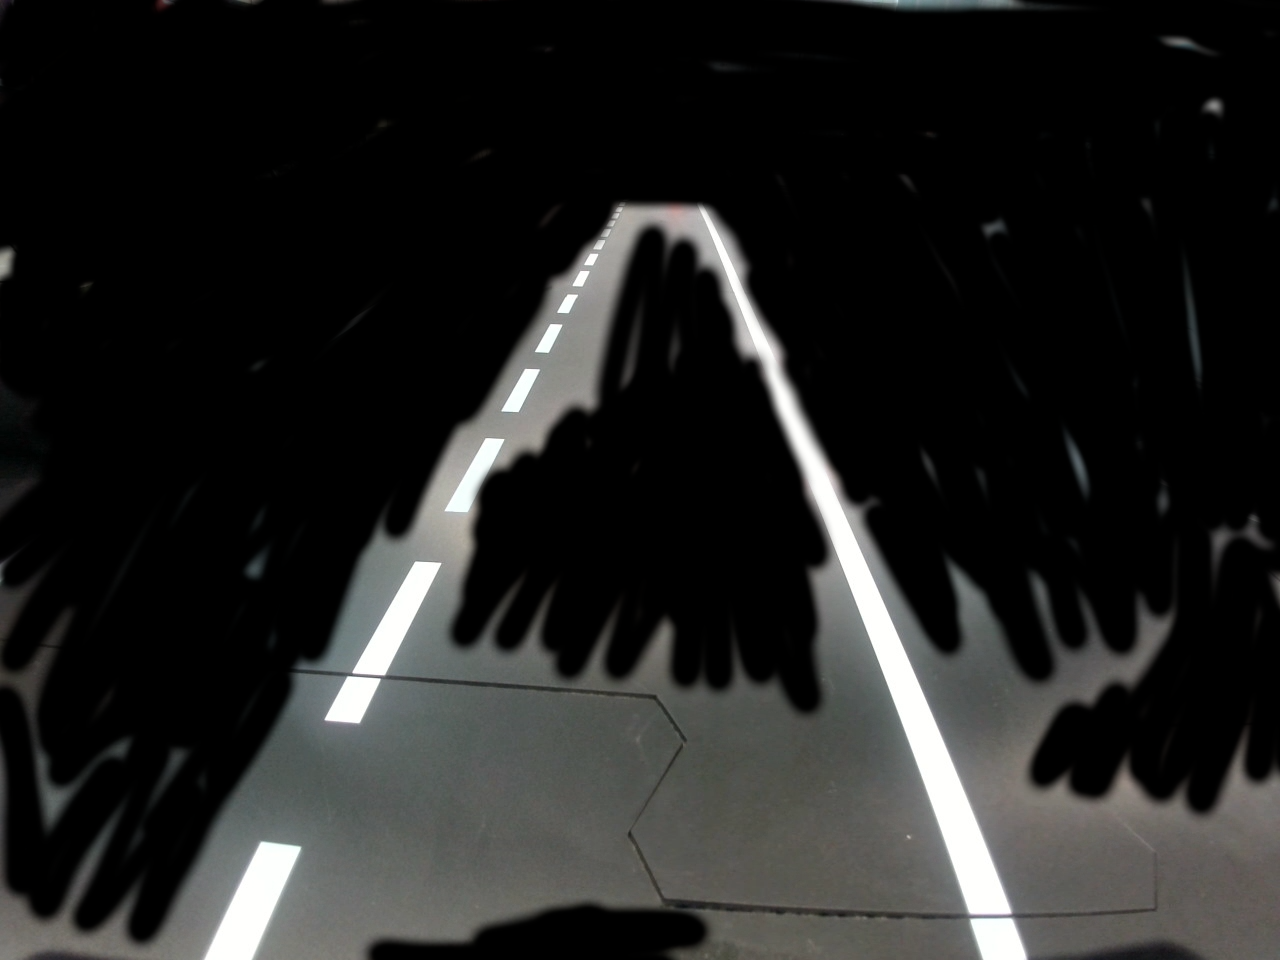
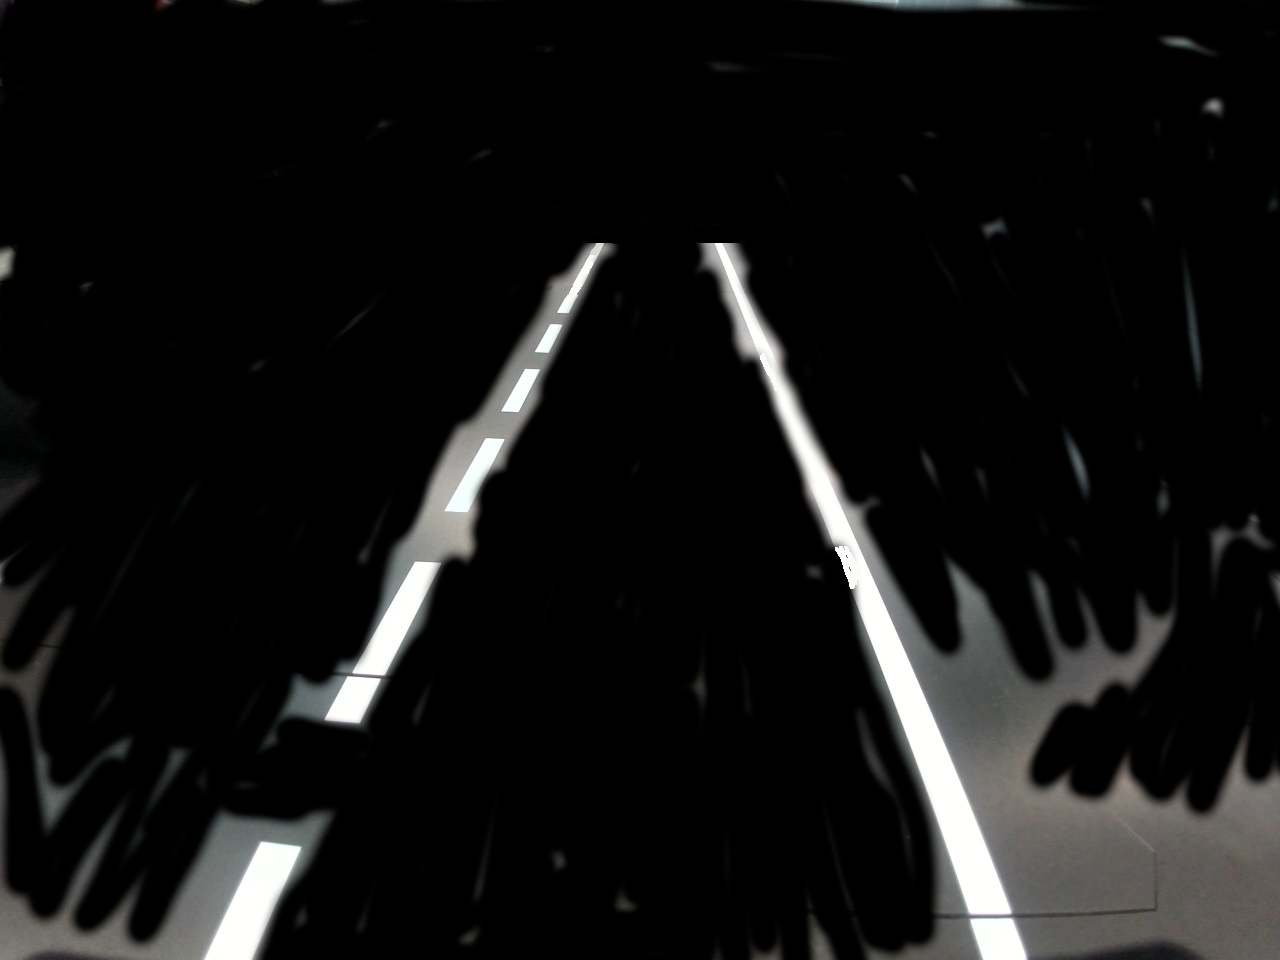
рабочая сетка

Changed region(s): [[0.1562, 0.5, 0.75, 1.0], [0.375, 0.1875, 0.5938, 0.5], [0.1875, 0.5625, 0.2188, 0.625]]

diff --git a/Computer_Vision_for_Autonomous_Robot_Navigation/Main_stage/matrix_pro.py b/Computer_Vision_for_Autonomous_Robot_Navigation/Main_stage/matrix_pro.py
@@ -95,64 +95,79 @@ def find_road_edges(image):
                     else:
                         right_lines.append(line[0])
             
-            # Если нашли линии, используем их для определения границ
-            if left_lines and right_lines:
-                # Берем средние позиции линий
-                left_x = int(np.mean([line[0] for line in left_lines]))
-                right_x = int(np.mean([line[0] for line in right_lines]))  # Исправлено: было left_lines
-                
-                # Находим реальную верхнюю границу дороги
-                # Анализируем y-координаты найденных линий
-                left_y_coords = [line[1] for line in left_lines]  # y-координаты левых линий
-                right_y_coords = [line[1] for line in right_lines]  # y-координаты правых линий
-                
-                # Берем самую верхнюю точку среди всех линий
-                all_y_coords = left_y_coords + right_y_coords
-                top_y = min(all_y_coords) if all_y_coords else int(height * 0.2)
-                
-                # Ограничиваем верхнюю границу
-                min_top_y = int(height * 0.1)
-                top_y = max(top_y, min_top_y)
-                
-                # Создаем точки для трапеции
-                dst_points = np.float32([
-                    [left_x, top_y],                  # верхний левый
-                    [right_x, top_y],                 # верхний правый
-                    [right_x + 50, height],           # нижний правый
-                    [left_x - 50, height]             # нижний левый
-                ])
-                return dst_points, white_lines_mask, image.copy()
+            # Убираем весь блок с линиями Хафа - берем точки только от контуров
     
-    # Создаем точки трапеции на основе найденных контуров
+    # Создаем точки трапеции от контуров белых линий
     if left_edge is not None and right_edge is not None:
-        # Получаем крайние точки контуров
-        left_rect = cv2.boundingRect(left_edge)
-        right_rect = cv2.boundingRect(right_edge)
+        # Берем точки контуров
+        left_points = left_edge.reshape(-1, 2)
+        right_points = right_edge.reshape(-1, 2)
         
-        # Находим реальную верхнюю границу дороги
-        # Ищем самую верхнюю точку среди левого и правого контуров
-        left_top_y = left_rect[1]  # y-координата верхней границы левого контура
-        right_top_y = right_rect[1]  # y-координата верхней границы правого контура
-        top_y = min(left_top_y, right_top_y)  # Берем самую верхнюю точку
+        # От левой линии берем самые правые точки (сверху и снизу)
+        left_right_x = np.max(left_points[:, 0])
+        left_top_y = np.min(left_points[:, 1])
+        left_bottom_y = np.max(left_points[:, 1])
         
-        # Ограничиваем верхнюю границу, чтобы трапеция не была слишком узкой
-        min_top_y = int(height * 0.1)  # Минимум 10% от высоты
-        top_y = max(top_y, min_top_y)
+        # От правой линии берем самые левые точки (сверху и снизу)
+        right_left_x = np.min(right_points[:, 0])
+        right_top_y = np.min(right_points[:, 1])
+        right_bottom_y = np.max(right_points[:, 1])
         
-        # Создаем точки трапеции
+        # Строим трапецию с учетом наклона линий
+        # Верхние точки - на одной высоте (самая верхняя)
+        top_y = min(left_top_y, right_top_y)
+        
+        # Нижние точки - на одной высоте (самая нижняя)
+        bottom_y = max(left_bottom_y, right_bottom_y)
+        
+        # Находим x-координаты для верхних и нижних точек с учетом наклона
+        # Для левой линии: находим САМУЮ ПРАВУЮ точку на высоте top_y и bottom_y (внутренняя граница)
+        left_top_mask = np.abs(left_points[:, 1] - top_y) < 5  # точки вблизи top_y
+        left_bottom_mask = np.abs(left_points[:, 1] - bottom_y) < 5  # точки вблизи bottom_y
+        
+        if np.any(left_top_mask):
+            left_top_x = np.max(left_points[left_top_mask, 0])  # самая правая точка
+        else:
+            left_top_x = left_right_x
+            
+        if np.any(left_bottom_mask):
+            left_bottom_x = np.max(left_points[left_bottom_mask, 0])  # самая правая точка
+        else:
+            left_bottom_x = left_right_x
+        
+        # Для правой линии: находим САМУЮ ЛЕВУЮ точку на высоте top_y и bottom_y (внутренняя граница)
+        right_top_mask = np.abs(right_points[:, 1] - top_y) < 5  # точки вблизи top_y
+        right_bottom_mask = np.abs(right_points[:, 1] - bottom_y) < 5  # точки вблизи bottom_y
+        
+        if np.any(right_top_mask):
+            right_top_x = np.min(right_points[right_top_mask, 0])  # самая левая точка
+        else:
+            right_top_x = right_left_x
+            
+        if np.any(right_bottom_mask):
+            right_bottom_x = np.min(right_points[right_bottom_mask, 0])  # самая левая точка
+        else:
+            right_bottom_x = right_left_x
+        
         dst_points = np.float32([
-            [left_rect[0] + left_rect[2], top_y],                # верхний левый
-            [right_rect[0], top_y],                              # верхний правый
-            [right_rect[0] + right_rect[2], height],             # нижний правый
-            [left_rect[0], height]                               # нижний левый
+            [left_top_x, top_y],           # верхний левый (левая линия на верхней высоте)
+            [right_top_x, top_y],          # верхний правый (правая линия на верхней высоте)
+            [right_bottom_x, bottom_y],    # нижний правый (правая линия на нижней высоте)
+            [left_bottom_x, bottom_y]      # нижний левый (левая линия на нижней высоте)
         ])
+        
+        # Отладочная информация
+        print(f"Точки трапеции от контуров:")
+        print(f"Левая линия: верх x={left_top_x}, низ x={left_bottom_x}")
+        print(f"Правая линия: верх x={right_top_x}, низ x={right_bottom_x}")
+        print(f"Высота: верх y={top_y}, низ y={bottom_y}")
     else:
-        # Используем значения по умолчанию
+        # Используем значения по умолчанию (внутренние границы)
         dst_points = np.float32([
-            [width * 0.3, int(height * 0.2)],
-            [width * 0.7, int(height * 0.2)],
-            [width * 0.8, height],
-            [width * 0.2, height]
+            [width * 0.35, int(height * 0.2)],       # верхний левый (внутренняя левая граница)
+            [width * 0.65, int(height * 0.2)],       # верхний правый (внутренняя правая граница)
+            [width * 0.65, int(height * 0.9)],       # нижний правый (внутренняя правая граница)
+            [width * 0.35, int(height * 0.9)]        # нижний левый (внутренняя левая граница)
         ])
     
     # Визуализация найденных контуров
@@ -161,29 +176,6 @@ def find_road_edges(image):
         cv2.drawContours(viz, [left_edge], -1, (0, 255, 0), 2)
     if right_edge is not None:
         cv2.drawContours(viz, [right_edge], -1, (0, 0, 255), 2)
-    
-    # Рисуем границы дороги на маске белых линий
-    yellow = (0, 255, 255)  # Желтый цвет в BGR
-    
-    if left_edge is not None:
-        # Для левой линии берем самую правую границу
-        left_rect = cv2.boundingRect(left_edge)
-        left_rightmost_x = left_rect[0] + left_rect[2]  # x + width
-        # Рисуем вертикальную линию по самой правой границе левого контура
-        cv2.line(white_lines_mask, (left_rightmost_x, 0), (left_rightmost_x, height), yellow, 3)
-        # Добавляем текст с координатой
-        cv2.putText(white_lines_mask, f'L:{left_rightmost_x}', (left_rightmost_x + 5, 30), 
-                    cv2.FONT_HERSHEY_SIMPLEX, 0.7, yellow, 2)
-    
-    if right_edge is not None:
-        # Для правой линии берем самую левую границу
-        right_rect = cv2.boundingRect(right_edge)
-        right_leftmost_x = right_rect[0]  # x
-        # Рисуем вертикальную линию по самой левой границе правого контура
-        cv2.line(white_lines_mask, (right_leftmost_x, 0), (right_leftmost_x, height), yellow, 3)
-        # Добавляем текст с координатой
-        cv2.putText(white_lines_mask, f'R:{right_leftmost_x}', (right_leftmost_x - 50, 30), 
-                    cv2.FONT_HERSHEY_SIMPLEX, 0.7, yellow, 2)
     
     return dst_points, white_lines_mask, viz
 
@@ -202,93 +194,27 @@ def calculate_grid_step(points, num_cells=15):
     
     return grid_step
 
-def create_grid_from_road_edges(width, height, dst_points, num_cells_horizontal=10, num_cells_vertical=10):
-    """Создает сетку от внутренних сторон линий дороги"""
+def create_grid(width, height, grid_step):
+    """Создает сетку с заданным шагом"""
     grid = np.zeros((height, width, 3), dtype=np.uint8)
     grid.fill(255)  # Белый фон
     
     # Рисуем черные линии сетки
     line_color = (0, 0, 0)
-    line_thickness = 2  # Увеличиваем толщину для лучшей видимости
+    line_thickness = 1
     
-    # Получаем координаты трапеции
-    top_left = dst_points[0]      # Верхний левый
-    top_right = dst_points[1]     # Верхний правый
-    bottom_right = dst_points[2]  # Нижний правый
-    bottom_left = dst_points[3]   # Нижний левый
+    # Горизонтальные линии
+    for y in range(0, height, grid_step):
+        cv2.line(grid, (0, y), (width, y), line_color, line_thickness)
     
-    # Рисуем вертикальные линии (параллельно границам дороги)
-    for i in range(num_cells_horizontal + 1):
-        # Интерполируем x-координату между левой и правой границами
-        t = i / num_cells_horizontal
-        
-        # Верхняя точка линии
-        top_x = top_left[0] + t * (top_right[0] - top_left[0])
-        top_y = top_left[1] + t * (top_right[1] - top_left[1])
-        
-        # Нижняя точка линии
-        bottom_x = bottom_left[0] + t * (bottom_right[0] - bottom_left[0])
-        bottom_y = bottom_left[1] + t * (bottom_right[1] - bottom_left[1])
-        
-        # Рисуем линию
-        cv2.line(grid, (int(top_x), int(top_y)), (int(bottom_x), int(bottom_y)), 
-                line_color, line_thickness)
-    
-    # Рисуем горизонтальные линии (перпендикулярно границам дороги)
-    for i in range(num_cells_vertical + 1):
-        # Интерполируем y-координату между верхней и нижней границами
-        t = i / num_cells_vertical
-        
-        # Левая точка линии
-        left_x = top_left[0] + t * (bottom_left[0] - top_left[0])
-        left_y = top_left[1] + t * (bottom_left[1] - top_left[1])
-        
-        # Правая точка линии
-        right_x = top_right[0] + t * (bottom_right[0] - top_right[0])
-        right_y = top_right[1] + t * (bottom_right[1] - top_right[1])
-        
-        # Рисуем линию
-        cv2.line(grid, (int(left_x), int(left_y)), (int(right_x), int(right_y)), 
-                line_color, line_thickness)
-    
-    return grid
-
-def create_simple_grid(width, height, dst_points, num_cells_horizontal=10, num_cells_vertical=10):
-    """Создает простую сетку с прямыми линиями"""
-    grid = np.zeros((height, width, 3), dtype=np.uint8)
-    grid.fill(255)  # Белый фон
-    
-    # Рисуем черные линии сетки
-    line_color = (0, 0, 0)
-    line_thickness = 3  # Еще больше увеличиваем толщину
-    
-    # Получаем границы дороги
-    left_x = dst_points[0][0]   # Левая граница
-    right_x = dst_points[1][0]  # Правая граница
-    top_y = dst_points[0][1]    # Верхняя граница
-    bottom_y = dst_points[2][1] # Нижняя граница
-    
-    # Рисуем вертикальные линии
-    for i in range(num_cells_horizontal + 1):
-        x = left_x + (right_x - left_x) * i / num_cells_horizontal
-        cv2.line(grid, (int(x), int(top_y)), (int(x), int(bottom_y)), 
-                line_color, line_thickness)
-    
-    # Рисуем горизонтальные линии
-    for i in range(num_cells_vertical + 1):
-        y = top_y + (bottom_y - top_y) * i / num_cells_vertical
-        cv2.line(grid, (int(y), int(left_x)), (int(y), int(right_x)), 
-                line_color, line_thickness)
+    # Вертикальные линии
+    for x in range(0, width, grid_step):
+        cv2.line(grid, (x, 0), (x, height), line_color, line_thickness)
     
     return grid
 
 def main():
     """Основная функция"""
-    # Параметры сетки - можно легко изменять
-    NUM_CELLS_HORIZONTAL = 8   # Количество ячеек по горизонтали
-    NUM_CELLS_VERTICAL = 12    # Количество ячеек по вертикали
-    USE_SIMPLE_GRID = True     # True - простая сетка, False - сложная с перспективой
-    
     # Загружаем изображение
     image_path = "/home/arrma/PROGRAMMS/Arhipelag_2025/Computer_Vision_for_Autonomous_Robot_Navigation/lane_detection_result.jpg"
     image = cv2.imread(image_path)
@@ -308,28 +234,12 @@ def main():
     for i, point in enumerate(dst_points):
         print(f"Точка {i}: ({point[0]:.1f}, {point[1]:.1f})")
     
-    # Вычисляем размеры дороги
-    road_width = dst_points[1][0] - dst_points[0][0]
-    road_height = dst_points[2][1] - dst_points[0][1]
-    print(f"Ширина дороги: {road_width:.1f} пикселей")
-    print(f"Высота дороги: {road_height:.1f} пикселей")
+    # Вычисляем шаг сетки
+    grid_step = calculate_grid_step(dst_points)
+    print(f"Шаг сетки: {grid_step} пикселей")
     
-    # Выводим координаты границ дороги
-    if len(dst_points) >= 2:
-        print(f"Левая граница дороги (самая правая точка левого контура): {dst_points[0][0]:.1f}")
-        print(f"Правая граница дороги (самая левая точка правого контура): {dst_points[1][0]:.1f}")
-    
-    # Создаем сетку от внутренних сторон линий дороги
-    if USE_SIMPLE_GRID:
-        grid = create_simple_grid(width, height, dst_points, 
-                                NUM_CELLS_HORIZONTAL, NUM_CELLS_VERTICAL)
-        print(f"Создана простая сетка: {NUM_CELLS_HORIZONTAL} x {NUM_CELLS_VERTICAL} ячеек")
-        print(f"Толщина линий сетки: 3 пикселя")
-    else:
-        grid = create_grid_from_road_edges(width, height, dst_points, 
-                                         NUM_CELLS_HORIZONTAL, NUM_CELLS_VERTICAL)
-        print(f"Создана сложная сетка с перспективой: {NUM_CELLS_HORIZONTAL} x {NUM_CELLS_VERTICAL} ячеек")
-        print(f"Толщина линий сетки: 2 пикселя")
+    # Создаем сетку
+    grid = create_grid(width, height, grid_step)
     
     # Точки исходного прямоугольника
     src_points = np.float32([
@@ -363,15 +273,11 @@ def main():
     
     # Сохраняем результаты
     cv2.imwrite('road_with_grid_final.jpg', result)
-    cv2.imwrite('grid_only.jpg', grid)
     
     # Показываем результаты
     cv2.imshow('White Lines Detection', white_lines_mask)
     cv2.imshow('Road Contours', contour_img)
     cv2.imshow('Final Result with Grid', result)
-    
-    # Показываем сетку отдельно для отладки
-    cv2.imshow('Grid Only', grid)
     
     print("Нажмите любую клавишу для закрытия окон...")
     cv2.waitKey(0)
